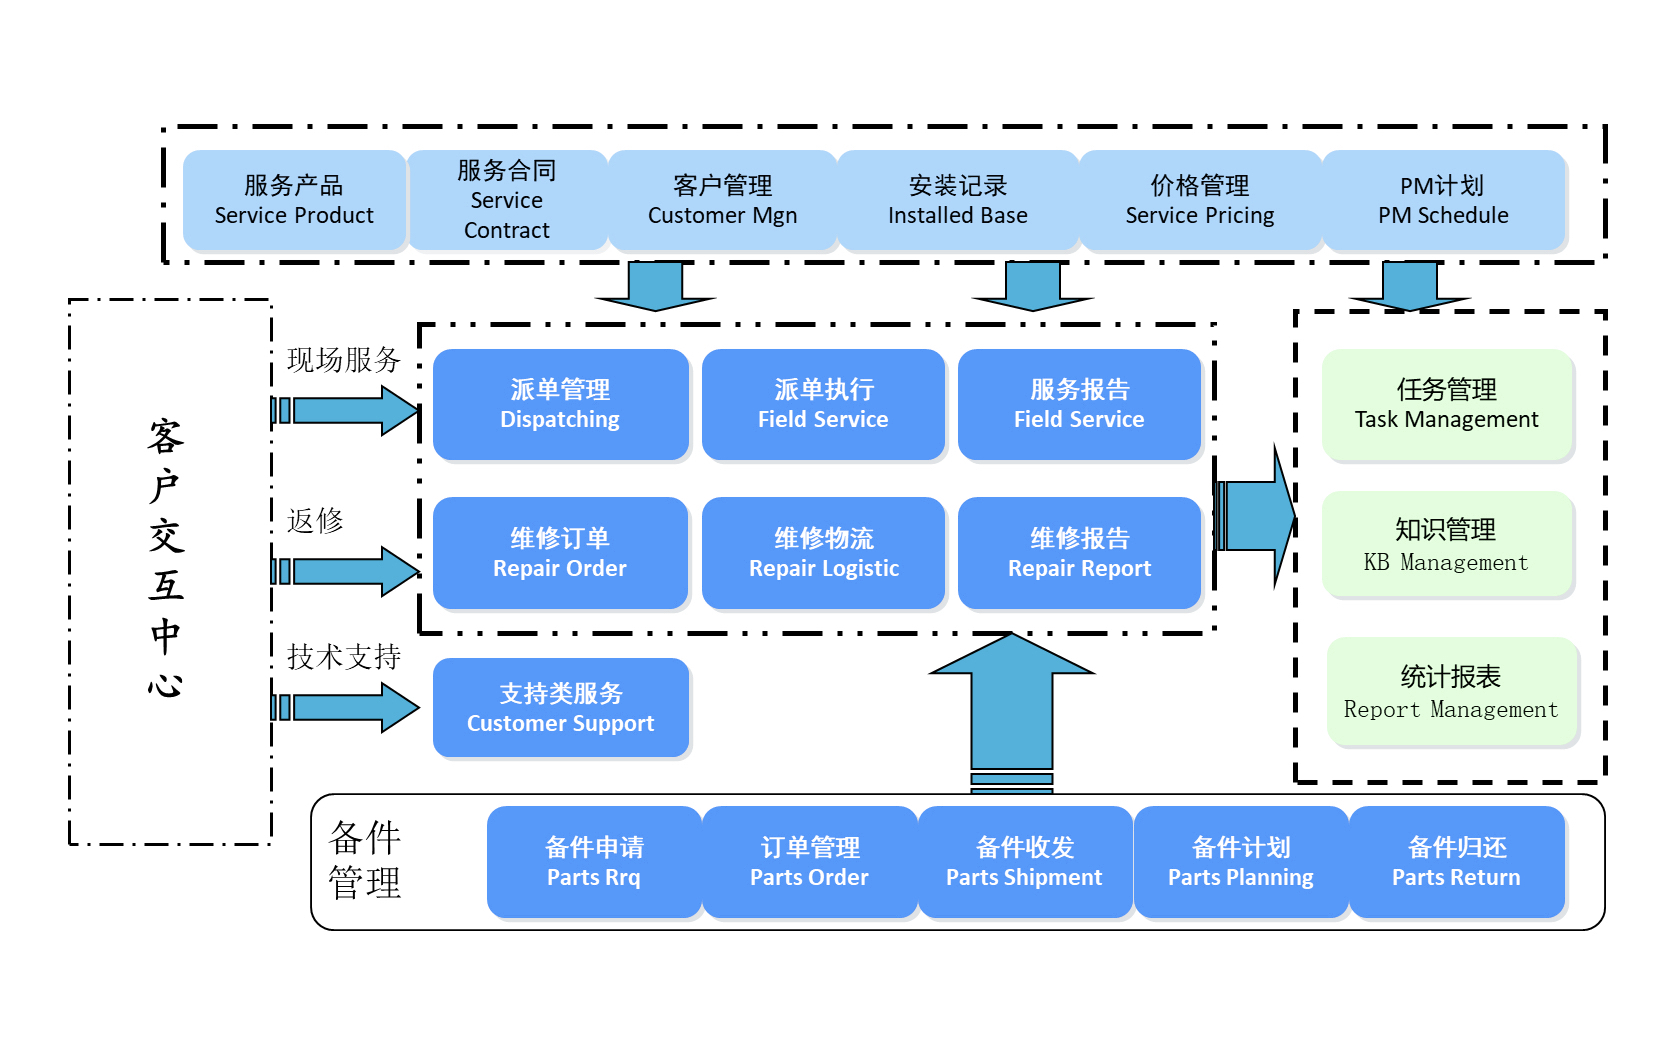
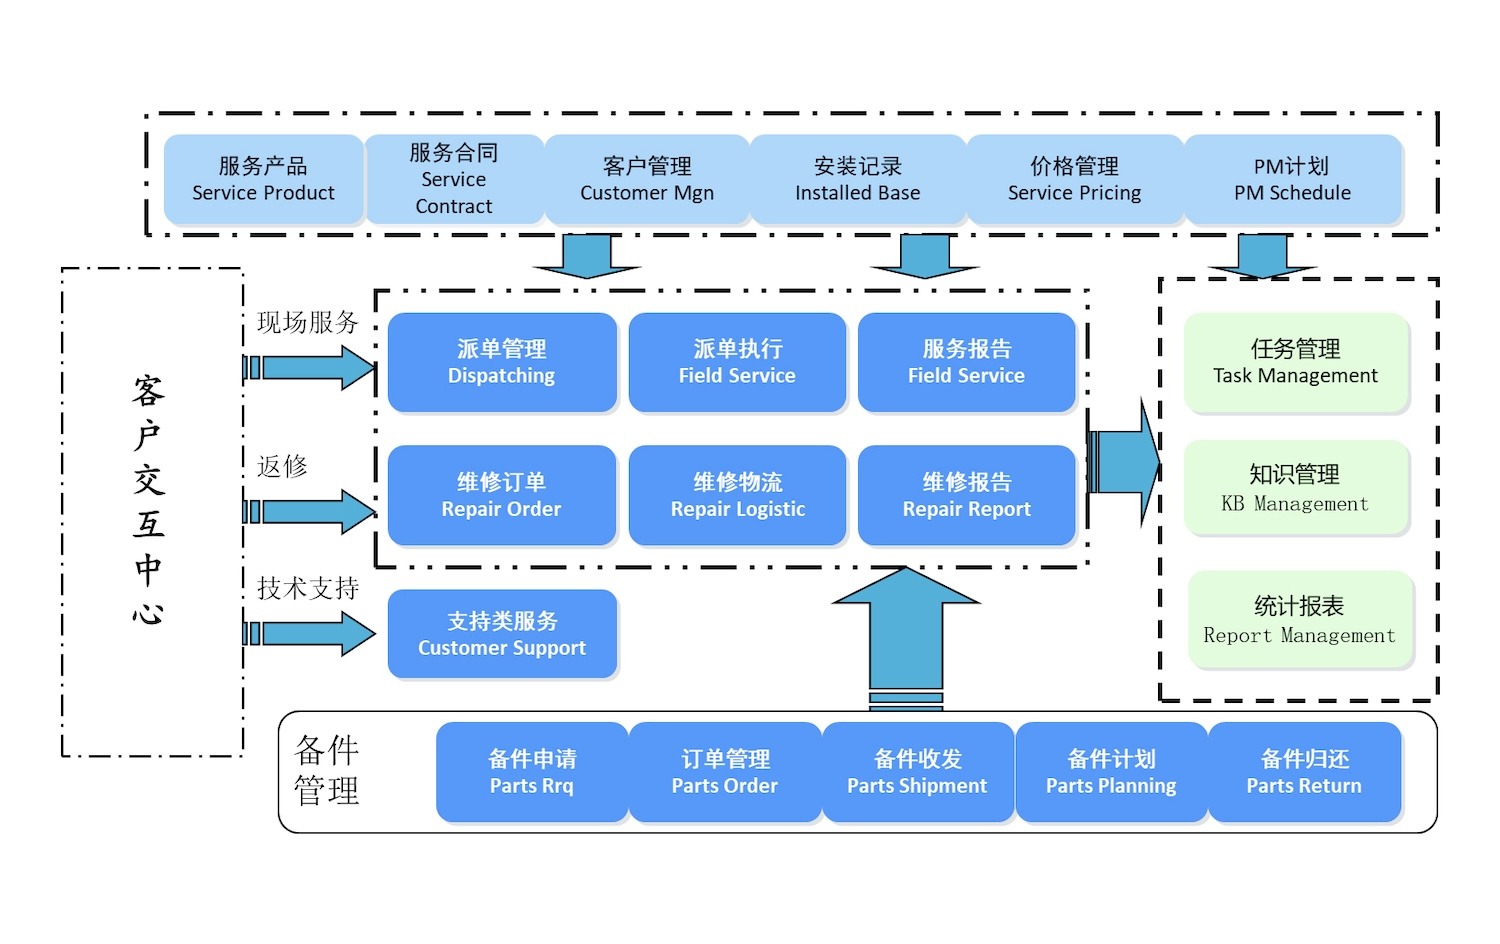
图片压缩

diff --git a/skin.css b/skin.css
@@ -9,7 +9,7 @@
 *
 */
 
-@import url('https://fonts.googleapis.com/css?family=Montserrat:500,600,700,800');
+/*@import url('https://fonts.googleapis.com/css?family=Montserrat:500,600,700,800');*/
 
 /*
 
